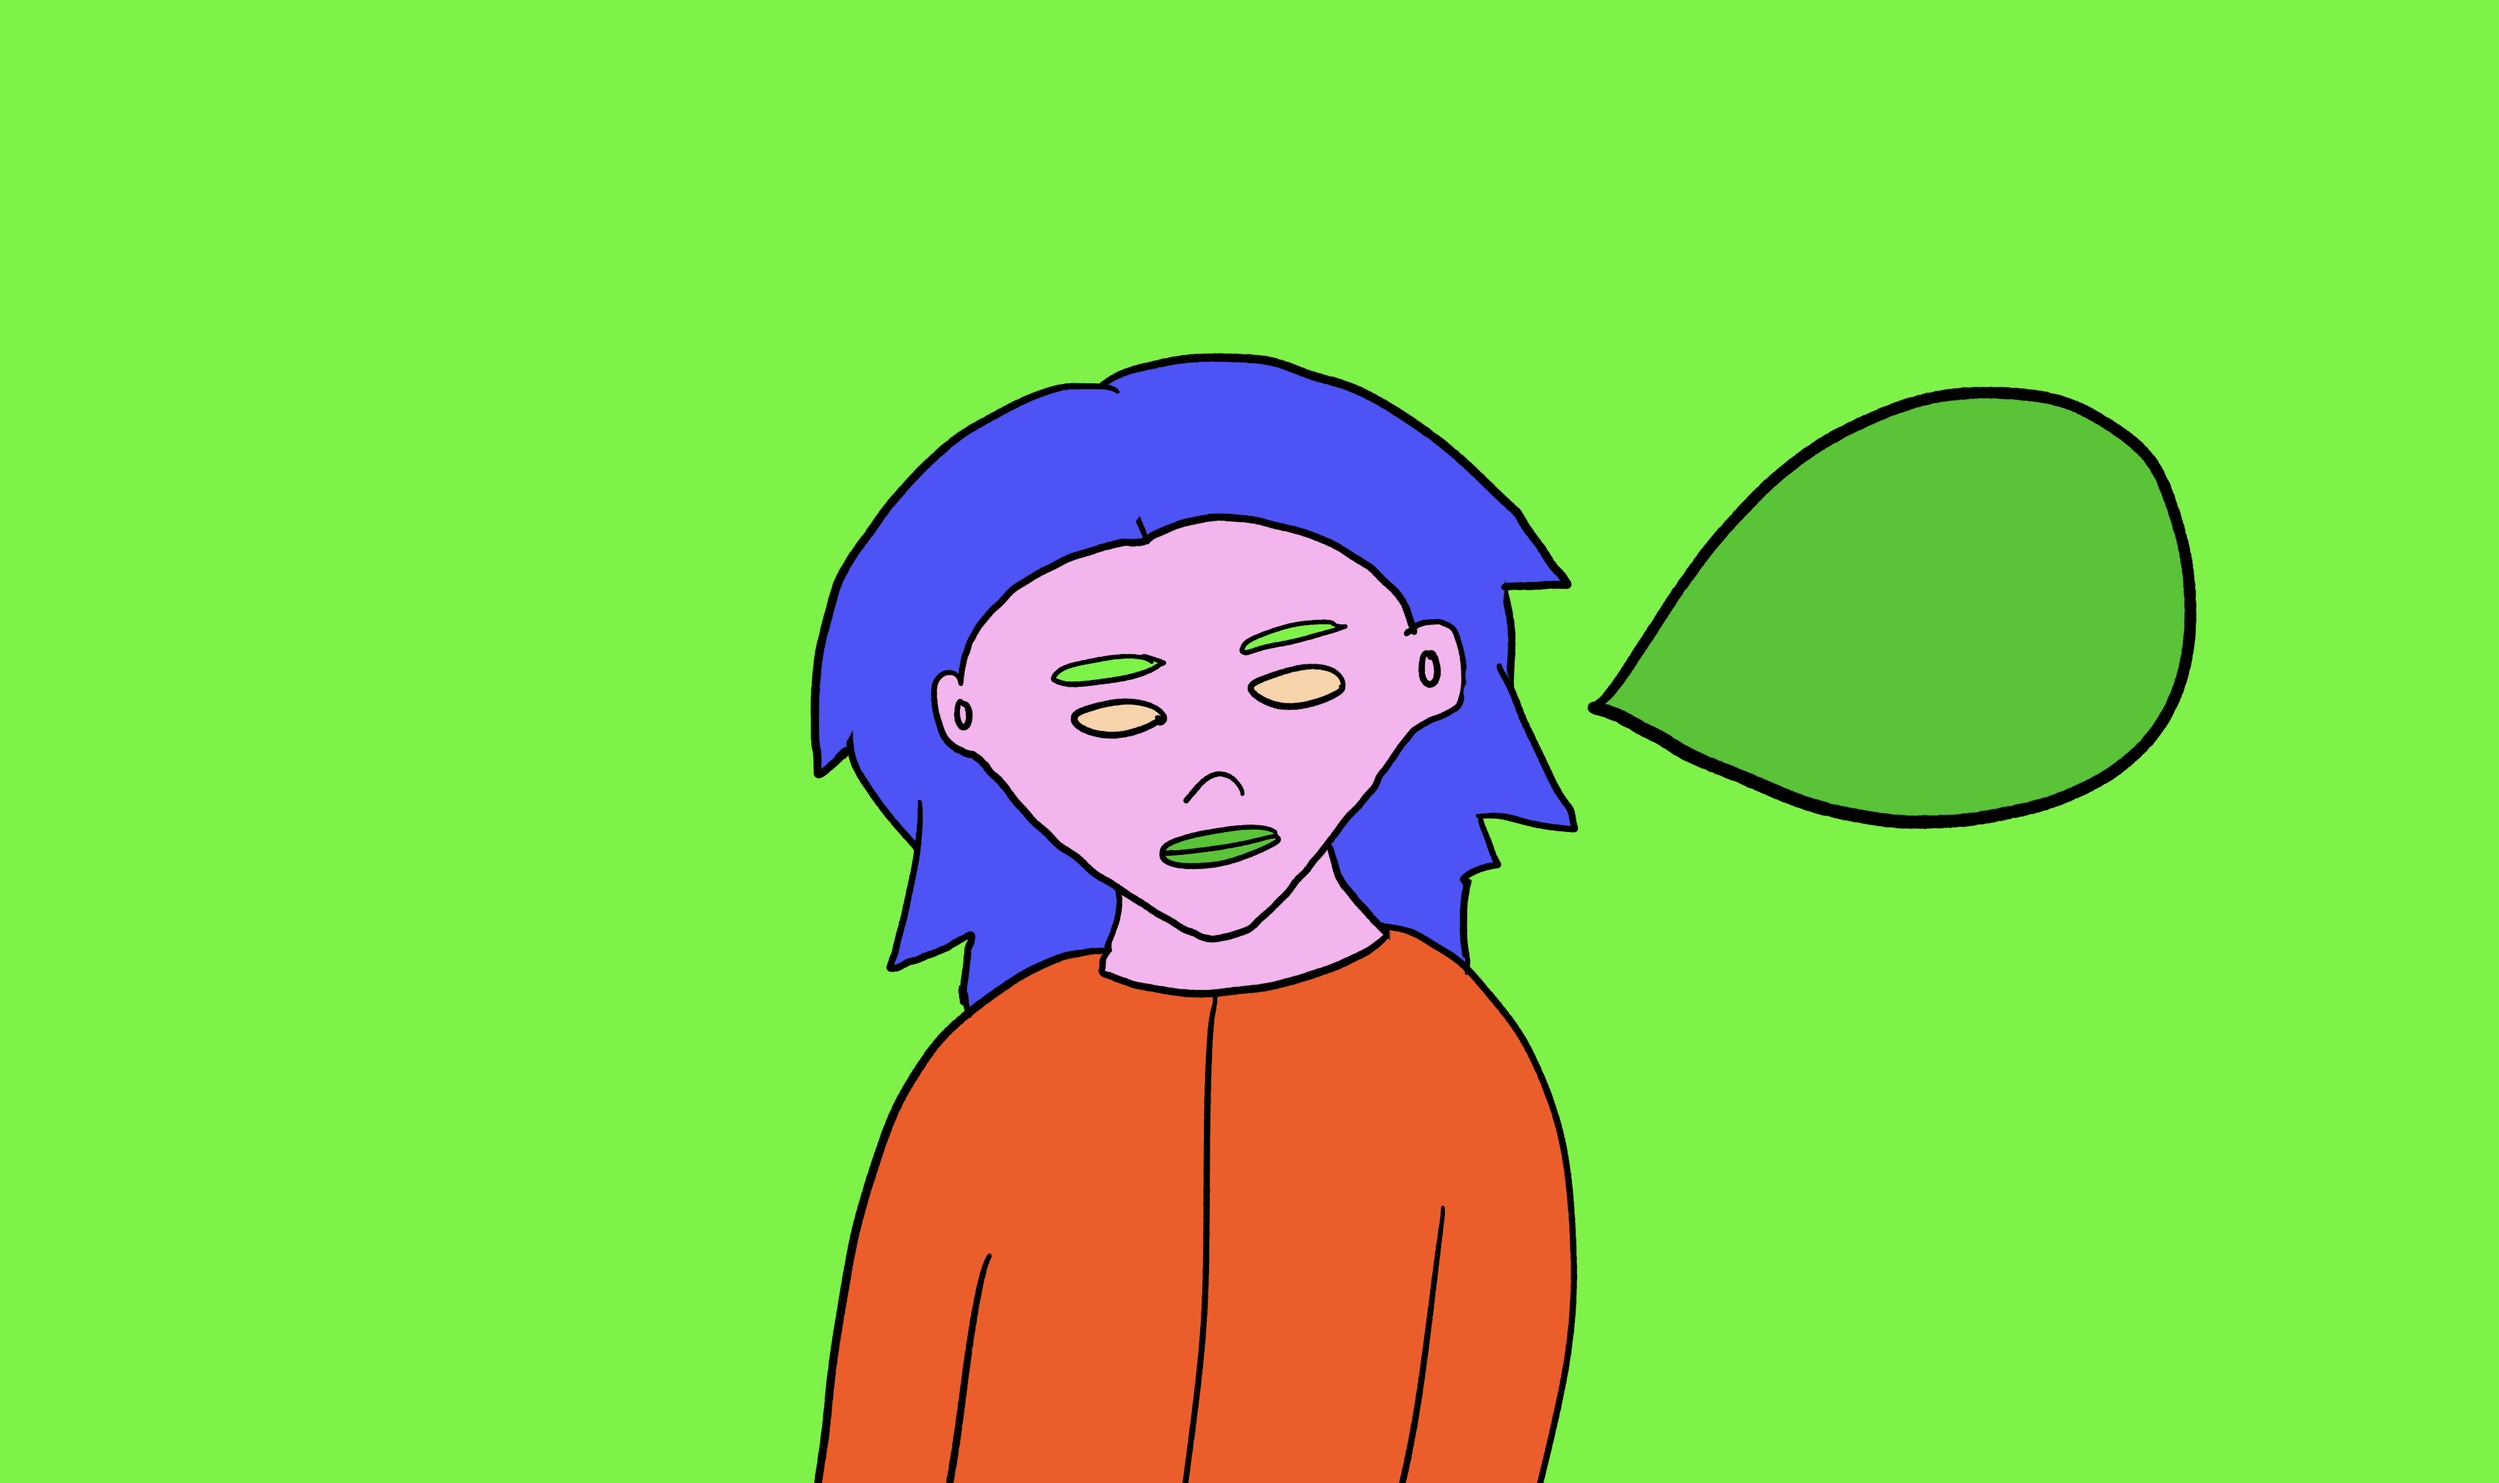
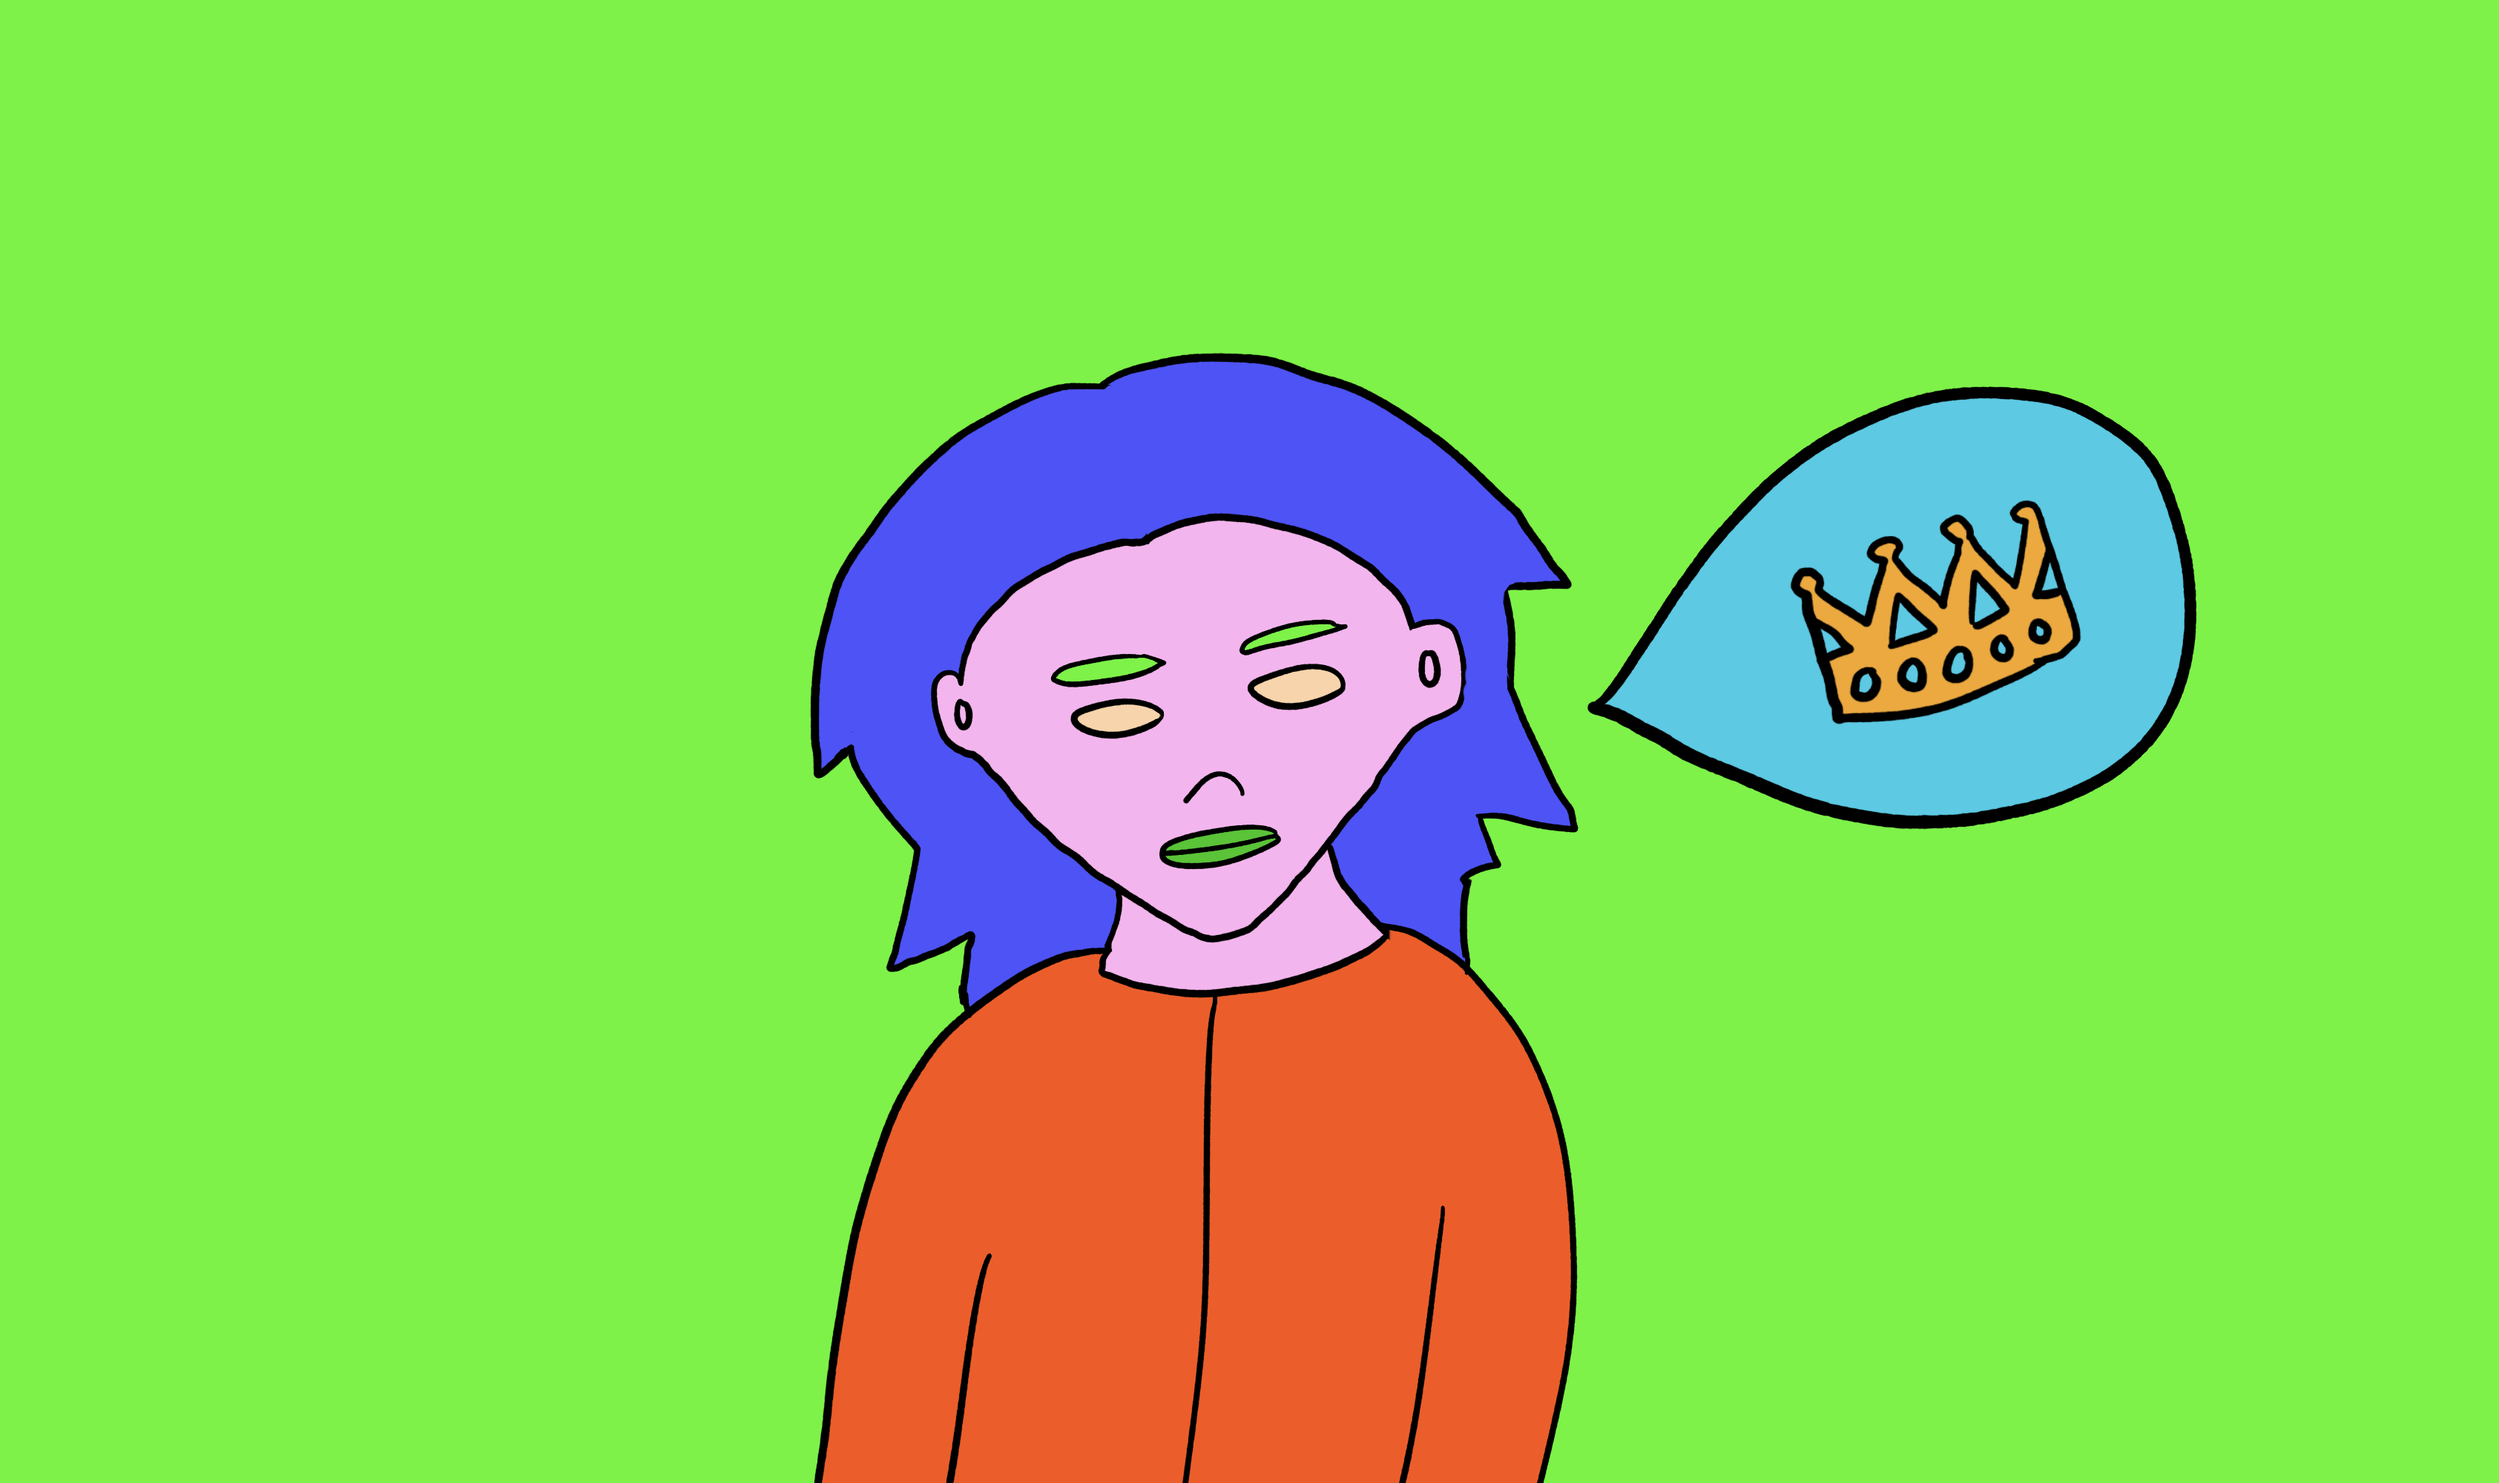
fix image link

Changed region(s): [[0.6233, 0.248, 0.8727, 0.558]]

diff --git a/guests/index.html b/guests/index.html
@@ -149,21 +149,21 @@
       </figure>
 
       <figure class="port-item">
-        <a href="http://specialguest.best/the-diversion" class="button-invisible"><img src="../img/hype-friend-small.png" alt="The Diversion"></a>
+        <a href="http://specialguest.best/the-diversion" class="button-invisible"><img src="../img/the-diversion-small.png" alt="The Diversion"></a>
         <figcaption class="port-desc">
           <a href="http://specialguest.best/the-diversion" class="button button-port"><span class="title">The Diversion:</span> For the unprepared soul</a>
         </figcaption>
       </figure>
 
       <figure class="port-item">
-        <a href="http://specialguest.best/the-icebreaker" class="button-invisible"><img src="../img/hype-friend-small.png" alt="The Icebreaker"></a>
+        <a href="http://specialguest.best/the-icebreaker" class="button-invisible"><img src="../img/the-icebreaker-small.png" alt="The Icebreaker"></a>
         <figcaption class="port-desc">
           <a href="http://specialguest.best/the-icebreaker" class="button button-port"><span class="title">The Icebreaker:</span> For icy groups</a>
         </figcaption>
       </figure>
 
       <figure class="port-item">
-        <a href="http://specialguest.best/laugh-track" class="button-invisible"><img src="../img/hype-friend-small.png" alt="Laugh Track"></a>
+        <a href="http://specialguest.best/laugh-track" class="button-invisible"><img src="../img/laugh-track-small.png" alt="Laugh Track"></a>
         <figcaption class="port-desc">
           <a href="http://specialguest.best/laugh-track" class="button button-port"><span class="title">Laugh Track:</span> Group sounds for you</a>
         </figcaption>
@@ -233,12 +233,12 @@
       </figure>
 
       <figure class="port-item">
-        <a href="http://specialguest.best/techno-party" class="button-invisible"><img src="../img/hype-friend-small.png" alt="Techo Party"></a>
+        <a href="http://specialguest.best/techno-party" class="button-invisible"><img src="../img/techno-party-small.png" alt="Techo Party"></a>
         <figcaption class="port-desc">
-          <a href="http://specialguest.best/techno-party" class="button button-port"><span class="title">Techo Party:</span> Can’t stop, won’t stop</a>
+          <a href="http://specialguest.best/techno-party" class="button button-port"><span class="title">Techno Party:</span> Can’t stop, won’t stop</a>
         </figcaption>
       </figure>
-<!-- 
+<!--
       <figure class="port-item">
         <a href="http://specialguest.best/chatty-bubbles" class="button-invisible"><img src="../img/hype-friend-small.png" alt="Chatty Bubbles???"></a>
         <figcaption class="port-desc">
